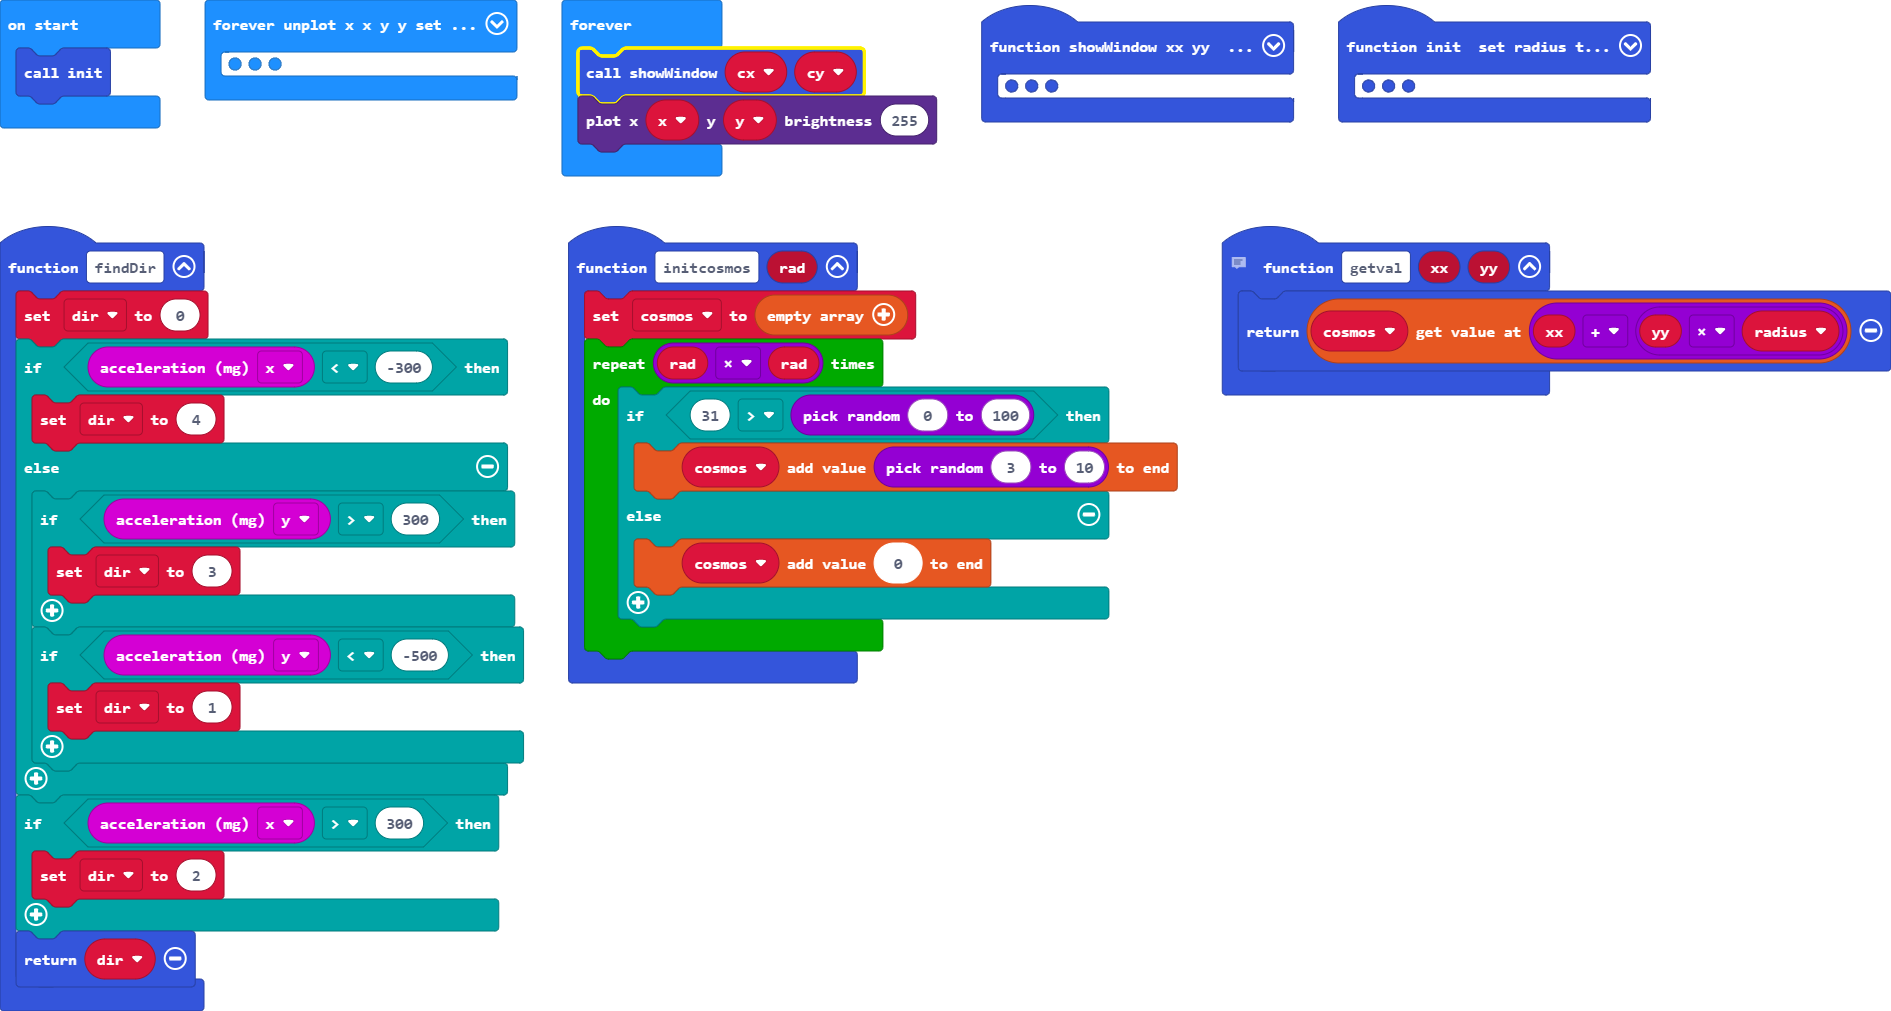
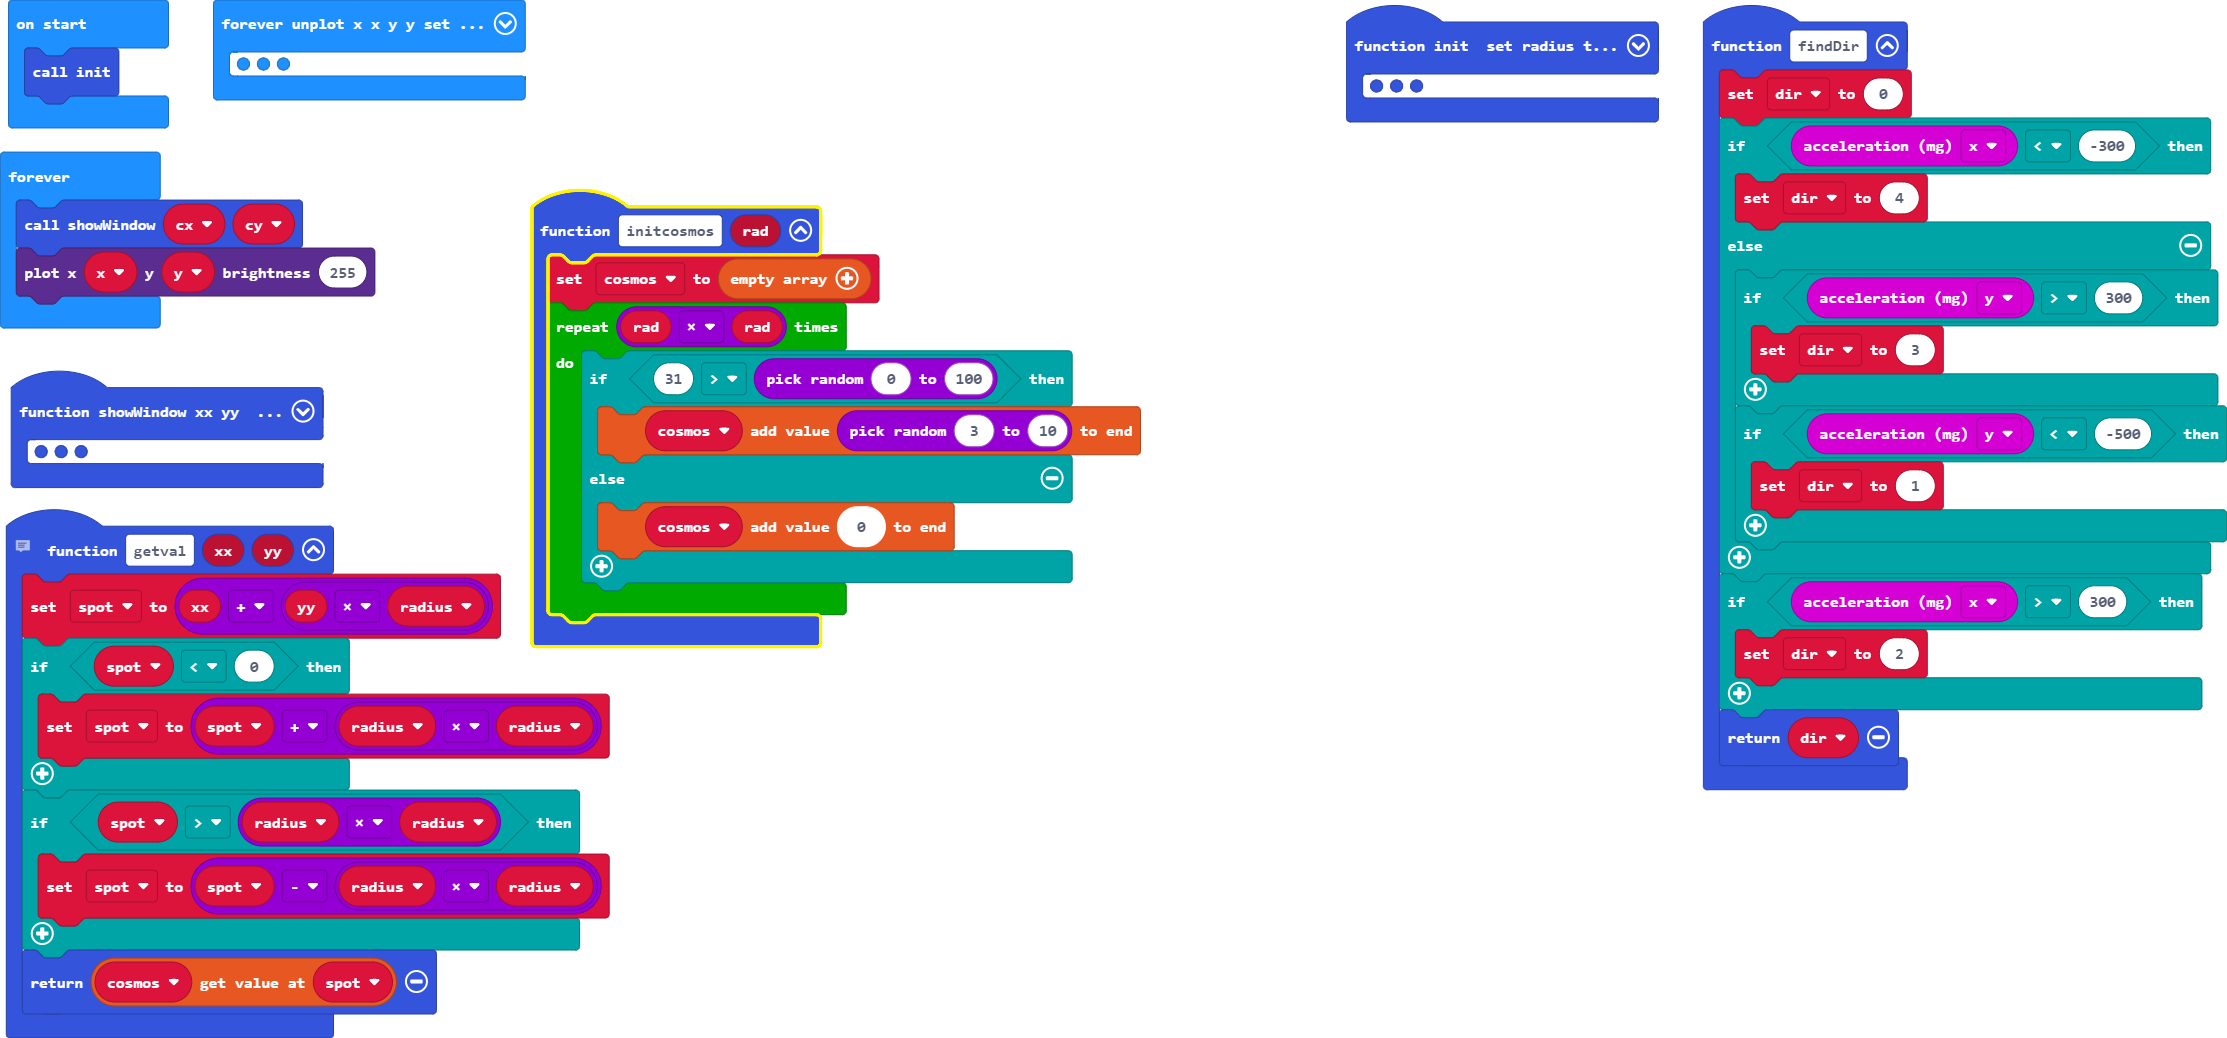
fixed to wrap on edges so universe is a torus.

diff --git a/main.ts b/main.ts
@@ -57,11 +57,19 @@ function findDir () {
     return dir
 }
 // get  x,y value from cosmos
-// 
+// fixed to wrap on edges.
 function getval (xx: number, yy: number) {
-    return cosmos[xx + yy * radius]
+    spot = xx + yy * radius
+    if (spot < 0) {
+        spot = spot + radius * radius
+    }
+    if (spot > radius * radius) {
+        spot = spot - radius * radius
+    }
+    return cosmos[spot]
 }
 let move = 0
+let spot = 0
 let dir = 0
 let dy: number[] = []
 let dx: number[] = []
